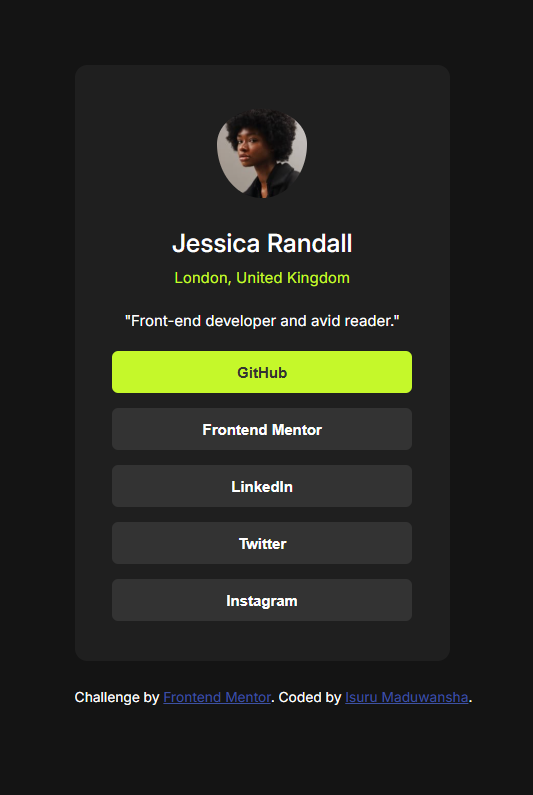
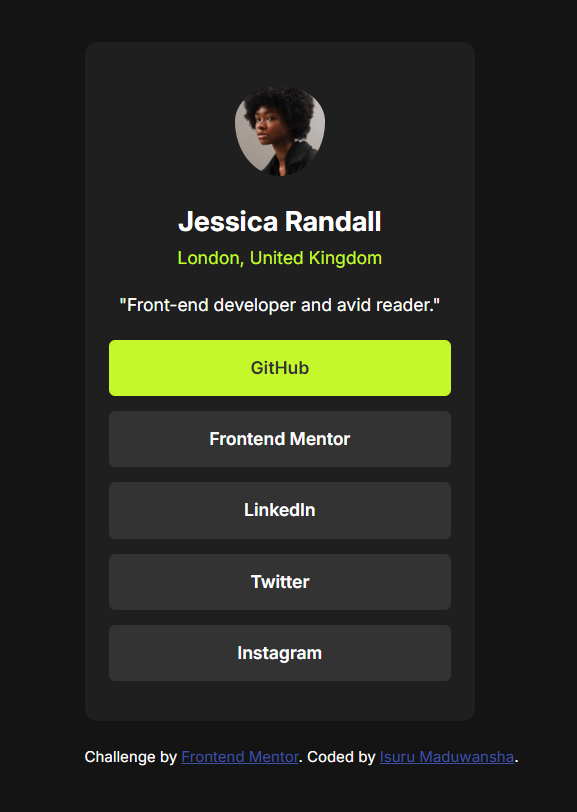
html and css update

diff --git a/style.css b/style.css
@@ -1,6 +1,6 @@
 /*-- colors & font variables --*/
 :root{
-   font-family: Inter;
+   font-family: "Inter" , sans-serif;
    --c-Green: hsl(75, 94%, 57%);
    --c-White: hsl(0, 0%, 100%);
    --c-Grey700: hsl(0, 0%, 20%);
@@ -15,13 +15,13 @@ body{
    background-color: var(--c-Grey900);
    align-items: center;
    justify-content: center;
-   line-height: 1.6;
+   line-height: 1.5;
 }
 /*--container --*/
 .container{
    display: flex;
    flex-direction: column;
-   max-width: 300px;
+   max-width: min(90% , 375px);
    background-color: var(--c-Grey800);
    border-radius:10px;
    align-items: center;
@@ -29,19 +29,19 @@ body{
    padding-bottom: 20px;
 }
 .container h1{
-   font-size: 20px;
-   font-weight: 500;
+   font-size: 22px;
+   font-weight: 700;
    color: var(--c-White);
    margin: 0;
 }
 .container span{
-   font-size: 12px;
+   font-size: 14px;
    font-weight: 400;
    color: var(--c-Green);
    padding-top: 2px;
 }
 .container p{
-   font-size: 12px;
+   font-size: 14px;
    font-weight: 400;
    color: var(--c-White);
    padding: 3px;
@@ -53,22 +53,25 @@ body{
    width: 72px;
    height: 72px;
 }
-/*-- button --*/
-.buttonStyle{
+/*-- link --*/
+.linkStyle{
+   display: block;
+   text-align: center;
+   text-decoration: none;
    color: var(--c-White);
    background-color: var(--c-Grey700);
-   font-size: 12px;
+   font-size: 14px;
    font-weight: 600;
-   padding: 10px;
+   padding: 12px;
    border-radius: 5px;
    border-style: none;
    width: 80%;
    margin-bottom: 12px;
 }
-.buttonStyle:hover{
+.linkStyle:hover{
    background-color: var(--c-Green);
    color: var(--c-Grey700);
 }
 /*-- footer --*/
-   .attribution { font-size: 11px; color: var(--c-White); text-align: center; margin-top: 20px; }
+   .attribution { font-size: 12px; color: var(--c-White); text-align: center; margin-top: 20px; }
    .attribution a { color: hsl(228, 45%, 44%); }

diff --git a/index.html b/index.html
@@ -26,11 +26,11 @@
         <span>London, United Kingdom</span>
         <p>"Front-end developer and avid reader."</p>
 
-        <button class="buttonStyle">GitHub</button>
-        <button class="buttonStyle">Frontend Mentor</button>
-        <button class="buttonStyle">LinkedIn</button>
-        <button class="buttonStyle">Twitter</button>
-        <button class="buttonStyle">Instagram</button>
+        <a href="https://github.com/" class="linkStyle">GitHub</a>
+        <a href="https://www.frontendmentor.io/" class="linkStyle">Frontend Mentor</a>
+        <a href="https://www.linkedin.com/" class="linkStyle">LinkedIn</a>
+        <a href="https://x.com/" class="linkStyle">Twitter</a>
+        <a href="https://www.instagram.com//" class="linkStyle">Instagram</a>
 
     </div>
   
